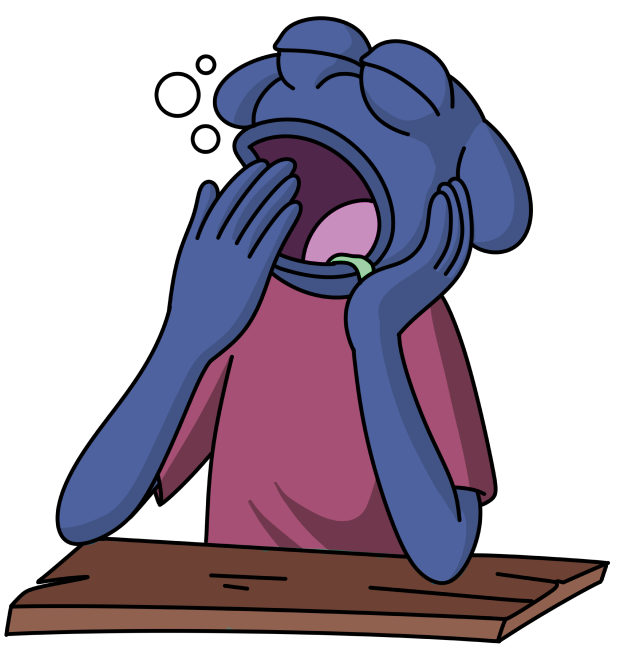
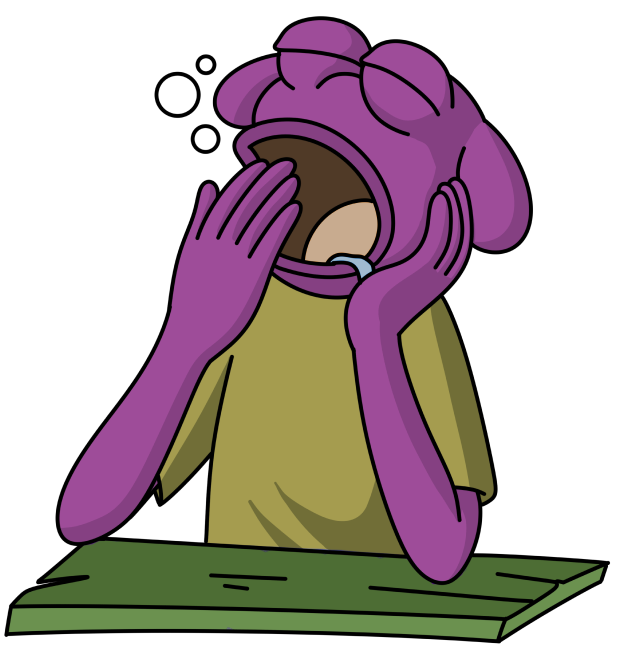
“random”

diff --git a/index.html b/index.html
@@ -5,7 +5,7 @@
     <link rel="stylesheet" href="css/styles.css">
     <link rel="stylesheet" href="css/slick.min.css">
     <link href="css/aos.css" rel="stylesheet">
-    <title>$SNOOZY</title>
+    <title>$SNUGGY</title>
 </head>
 <body>
     <header>
@@ -19,7 +19,7 @@
                     <li><a href="#yawn-roadmap">ROADMAP</a></li>
                     <li><a href="#yawn-howtobuy">HOW TO BUY</a></li>
                    
-                    <li class="buy-yawn-btn"><a href="https://pump.fun/6oFr8yHBYyxTpPXRWBoRGDJjCUQjH6SLrJnyEeWCpump">$SNOOZY</a></li>
+                    <li class="buy-yawn-btn"><a href="https://pump.fun/board">$SNUGGY</a></li>
                 </ul>
             </div>
             <div class="nav-burger-btn">
@@ -77,7 +77,7 @@
                 <div class="monkey-bed order-1" data-aos="fade-left" data-aos-delay="1200">
                     <img src="images/monkey-bed.png" alt="">
                     <div class="monkey-bed-info">
-                        <p>Meet Snoozy, the sleepiest member of the group. He was so deep in slumber that he missed the invitation to join the Boys' Club, a regret he's carried ever since. Determined to rise above, Snoozy is now launching his own venture with <span>$SNOOZY</span>, the world's first meme token that enables holders to earn profits from businesses and services developed under the SNOOZY brand. Our mission is to make SNOOZY a household name, fostering a community that amplifies our brand's influence. It's SNOOZY's world; you're just living in it.</p>
+                        <p>Meet Snuggy, the sleepiest member of the group. He was so deep in slumber that he missed the invitation to join the Boys' Club, a regret he's carried ever since. Determined to rise above, Snuggy is now launching his own venture with <span>$SNUGGY</span>, the world's first meme token that enables holders to earn profits from businesses and services developed under the SNUGGY brand. Our mission is to make SNUGGY a household name, fostering a community that amplifies our brand's influence. It's SNUGGY's world; you're just living in it.</p>
                     </div>
                 </div>
             </div>
@@ -101,34 +101,34 @@
                     </div>
                     <div class="slider-outer">
                         <div class="slider-items">
-                            <p> Snoozy had always been different. While the world around him bustled with energy and constant motion, Snoozy moved at his own pace, drifting through life in a serene, almost dreamlike state. His friends often joked that he could sleep through anything, and they weren't far off. Snoozy's sleepy demeanor was both his charm and his curse. Despite his relaxed nature, he had an air of mystery that intrigued those around him.
+                            <p> SNUGGY had always been different. While the world around him bustled with energy and constant motion, SNUGGY moved at his own pace, drifting through life in a serene, almost dreamlike state. His friends often joked that he could sleep through anything, and they weren't far off. Snuggy's sleepy demeanor was both his charm and his curse. Despite his relaxed nature, he had an air of mystery that intrigued those around him.
                             </p>
                         </div>
                         <div class="slider-items">
-                            <p>Growing up, Snoozy's favorite pastime was finding the perfect napping spots. He would explore fields, forests, and cozy corners of libraries, seeking out the best places to rest. His friends admired his ability to find tranquility amidst chaos, and they often joined him, lying in the grass or under a tree, talking about their dreams and aspirations.
+                            <p>Growing up, Snuggy's favorite pastime was finding the perfect napping spots. He would explore fields, forests, and cozy corners of libraries, seeking out the best places to rest. His friends admired his ability to find tranquility amidst chaos, and they often joined him, lying in the grass or under a tree, talking about their dreams and aspirations.
                             </p>
                         </div>
                         <div class="slider-items">
-                            <p>One day, Snoozy's friends decided to form the Boys' Club, an exclusive group meant for their closest pals. They sent out invitations to join, but Snoozy, true to his nature, was deep in slumber when the invitation arrived. By the time he woke up, the Boys' Club was already in full swing, and Snoozy had missed his chance. This missed opportunity lingered in his mind, sparking a sense of determination he hadn't felt before.
+                            <p>One day, Snuggy's friends decided to form the Boys' Club, an exclusive group meant for their closest pals. They sent out invitations to join, but Snuggy, true to his nature, was deep in slumber when the invitation arrived. By the time he woke up, the Boys' Club was already in full swing, and Snuggy had missed his chance. This missed opportunity lingered in his mind, sparking a sense of determination he hadn't felt before.
                             </p>
                         </div>
                         <div class="slider-items">
-                            <p>Determined to bring his own dream to life, Snoozy began to share his philosophy of taking things slow and finding joy in the simple moments. But Snoozy's vision went beyond just sharing his thoughts; he wanted to create something tangible that could unite people and spread his message far and wide. This led to the creation of $SNOOZY, the world's first meme token that was more than just a shit coin.
+                            <p>Determined to bring his own dream to life, Snuggy began to share his philosophy of taking things slow and finding joy in the simple moments. But Snuggy's vision went beyond just sharing his thoughts; he wanted to create something tangible that could unite people and spread his message far and wide. This led to the creation of $SNUGGY, the world's first meme token that was more than just a shit coin.
                             </p>
                         </div>
                         <div class="slider-items">
-                            <p>$SNOOZY isn't just another shit coin; it's a symbol of Snoozy's vision and ambition. The token allows holders to earn profits from businesses and services developed under the Snoozy brand, creating a vibrant and engaged community.</p>
+                            <p>$SNUGGY isn't just another shit coin; it's a symbol of Snuggy's vision and ambition. The token allows holders to earn profits from businesses and services developed under the Snuggy brand, creating a vibrant and engaged community.</p>
                         </div>
                         <div class="slider-items">
-                            <p>Snoozy's dream is to make his name known far and wide, turning his laid-back persona into a global phenomenon. Through creativity, innovation, and a touch of humor, Snoozy is set on building a brand that resonates with people everywhere. It's not just a token; it's an invitation to be part of a story where Snoozy is the hero, and everyone else is along for the ride.
+                            <p>Snuggy's dream is to make his name known far and wide, turning his laid-back persona into a global phenomenon. Through creativity, innovation, and a touch of humor, Snuggy is set on building a brand that resonates with people everywhere. It's not just a token; it's an invitation to be part of a story where Snuggy is the hero, and everyone else is along for the ride.
                             </p>
                         </div>
                         <div class="slider-items">
-                            <p>As Snoozy embarks on this new venture, he envisions a future where his influence grows along with the $SNOOZY community. He aims to lead a movement that values balance and mindfulness, countering the fast-paced and often overwhelming demands of modern life. His laid-back approach to business and life offers a refreshing alternative, attracting individuals from all walks of life who are eager to be part of something meaningful and innovative.
+                            <p>As Snuggy embarks on this new venture, he envisions a future where his influence grows along with the $SNUGGY community. He aims to lead a movement that values balance and mindfulness, countering the fast-paced and often overwhelming demands of modern life. His laid-back approach to business and life offers a refreshing alternative, attracting individuals from all walks of life who are eager to be part of something meaningful and innovative.
                             </p>
                         </div>
                         <div class="slider-items">
-                            <p>In a world that often values hustle and bustle, Snoozy stands out as a reminder that sometimes, it's okay to take things slow and dream big. His journey from a sleepy wanderer to an aspiring leader is a testament to the power of embracing one's true nature. Through $SNOOZY, Snoozy is not just creating a brand; he's crafting a lifestyle that celebrates tranquility, creativity, and the beauty of taking life one peaceful moment at a time. It's Snoozy's world, and everyone else is just living in it.</p>
+                            <p>In a world that often values hustle and bustle, Snuggy stands out as a reminder that sometimes, it's okay to take things slow and dream big. His journey from a sleepy wanderer to an aspiring leader is a testament to the power of embracing one's true nature. Through $SNUGGY, Snuggy is not just creating a brand; he's crafting a lifestyle that celebrates tranquility, creativity, and the beauty of taking life one peaceful moment at a time. It's Snuggy's world, and everyone else is just living in it.</p>
                         </div>
                     </div>
                
@@ -173,7 +173,7 @@
                 <!-- <p>Our plan is to build an ecosystem that returns profits to holders. There is no tax and the time locked funds release on a daily schedule. Any funds that aren't used will go to liquidity, burnt or added to the staking pool.</p> -->
             </div>
             <div class="copy-field" data-aos="fade-up" data-aos-delay="800">
-                <input type="text" readonly="" value="6oFr8yHBYyxTpPXRWBoRGDJjCUQjH6SLrJnyEeWCpump"> <span><img src="images/copy-icon.svg" alt="Code"></span>
+                <input type="text" readonly="" value="XXX"> <span><img src="images/copy-icon.svg" alt="Code"></span>
             </div>
         </div>
         <div class="earth-img" data-aos="zoom-in-left" data-aos-delay="800">
@@ -231,20 +231,20 @@
                             <h3>3. GO TO PUMP.FUN</h3>
                             <p>Visit Pump.fun (Phantom mobile
                                 features an integrated browser) to connect
-                                your wallet. Then paste the $SNOOZY address
+                                your wallet. Then paste the $SNUGGY address
                                 into the field to indicate which coin you
                                 wish to exchange your Solana for. </p>
                         </div>
                         <div class="board-info-col">
-                            <h3>4. SWAP SOLANA FOR $SNOOZY</h3>
+                            <h3>4. SWAP SOLANA FOR $SNUGGY</h3>
                             <p>Choose the amount you wish to trade,
                                 click “swap” and confirm the transaction.
                                 When your wallet prompts you, confirm the
                                 action. Congratulations, you are now a
-                                proud holder of $SNOOZY.</p>
+                                proud holder of $SNUGGY.</p>
                         </div>
                         <div class="copy-field copy-green-field">
-                            <input type="text" readonly="" value="6oFr8yHBYyxTpPXRWBoRGDJjCUQjH6SLrJnyEeWCpump"> <span><img src="images/copy-icon.svg" alt="Code"></span>
+                            <input type="text" readonly="" value="XXX"> <span><img src="images/copy-icon.svg" alt="Code"></span>
                         </div>
                     </div>
                   
@@ -272,18 +272,18 @@
                         <h4>JOIN US!</h4>
                         <ul>
                             <li>
-                                <a href="https://t.me/SNOOZY2MILLIONS">
+                                <a href="https://t.me/SNUGGYTOMILLIONZ">
                                     <img src="images/footer-link-img-1.png" alt="Yawn Social 1">
                                 </a>
                             </li>
                             <li>
-                                <a href="https://x.com/SolSnoozy">
+                                <a href="https://x.com/SnuggySol">
                                     <img src="images/footer-link-img-2.png" alt="Yawn Social 2">
                                 </a>
                             </li>
                            
                             <li>
-                                <a href="6oFr8yHBYyxTpPXRWBoRGDJjCUQjH6SLrJnyEeWCpump">
+                                <a href="https://pump.fun/board">
                                     <img src="images/footer-link-img-4.png" alt="Yawn Social 2">
                                 </a>
                             </li>

diff --git a/css/styles.css b/css/styles.css
@@ -56,7 +56,7 @@ header .header-row {
     color: #fff;
     border-radius: 4px;
     border: 1px solid #000;
-    background: #aa536d;
+    background: #a8aa52;
     box-shadow: 0px 3px 0px 0px #000;
     font-size: 25px;
     font-style: normal;
@@ -232,7 +232,7 @@ section.about-sec {
     text-align: center;
 }
 .sec-title h1 {
-    color: #aa536d;
+    color: #a8aa52;
     text-shadow: 8px 11px 0px #000;
     -webkit-text-stroke-width: 6px;
     -webkit-text-stroke-color: #000000;
